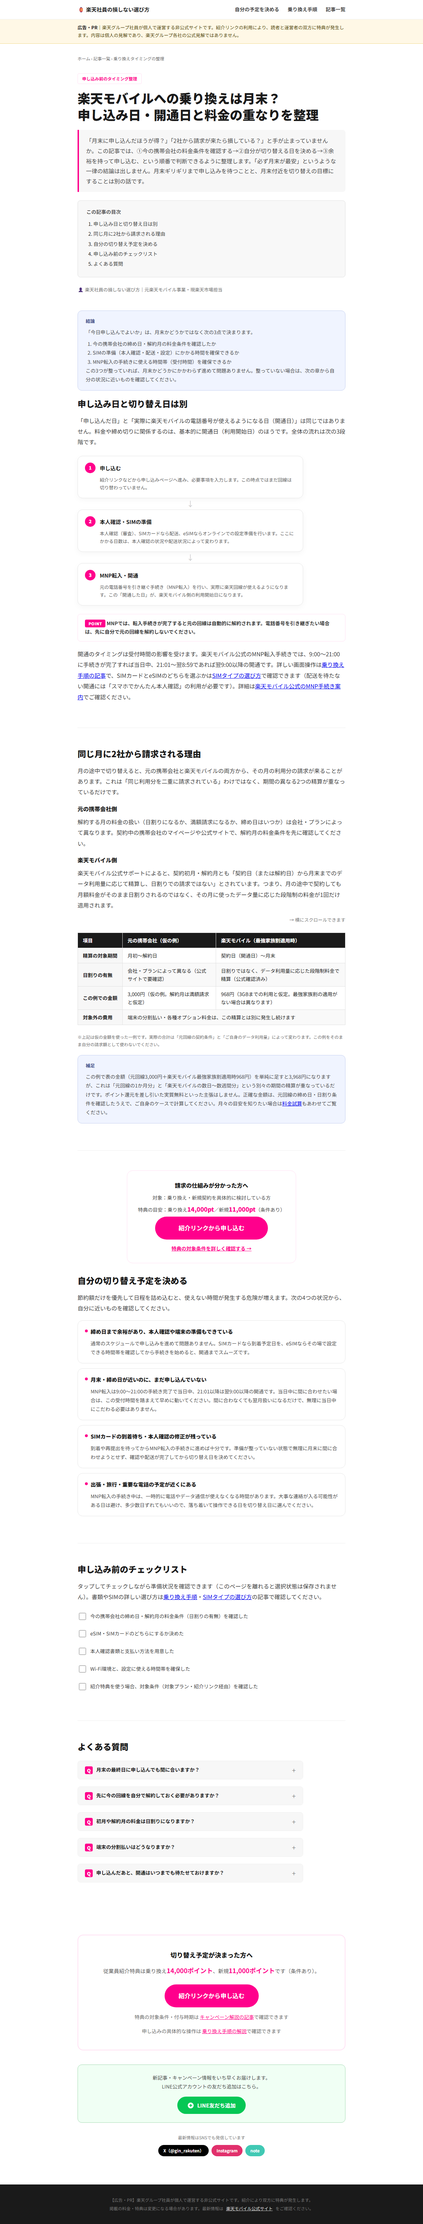
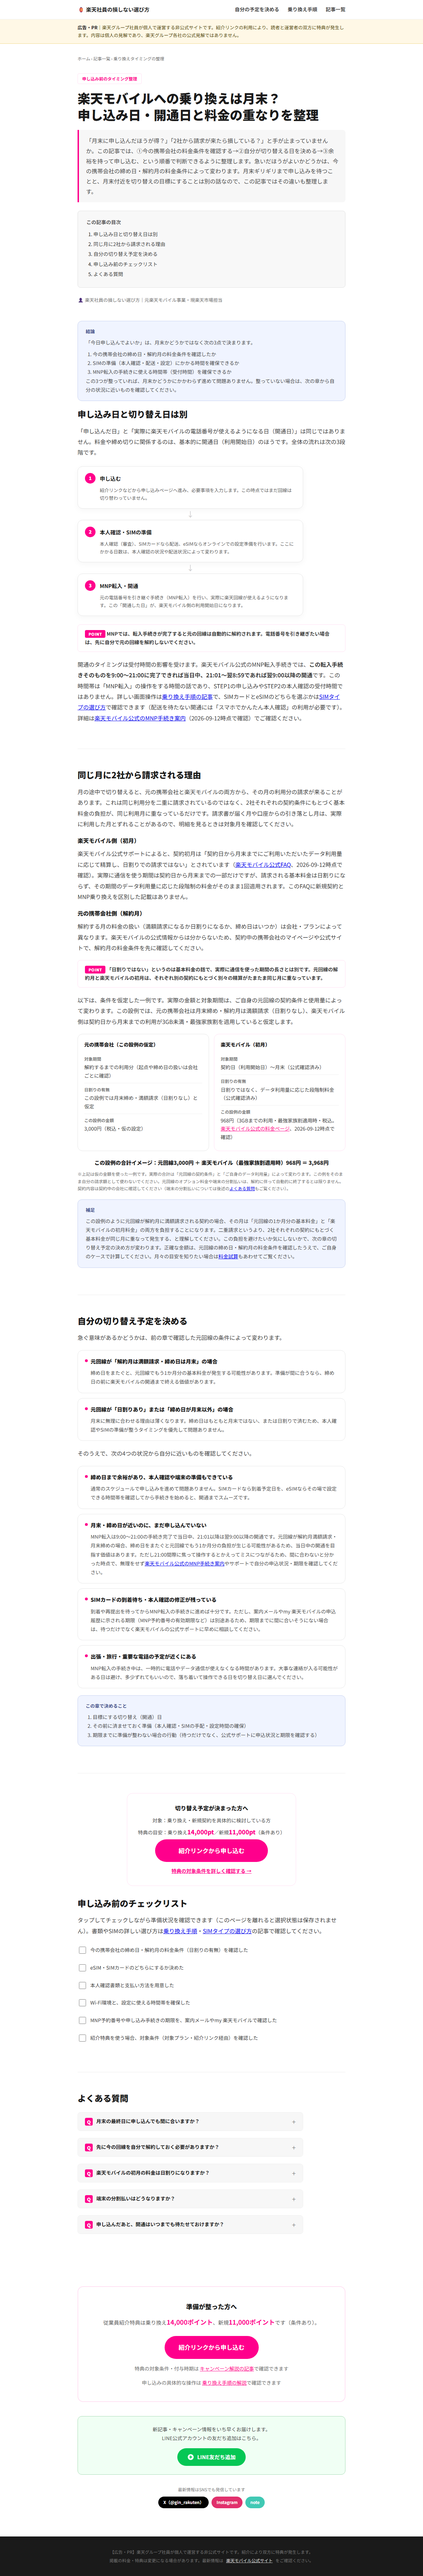
switch-timing修正版のレビュー画像・出典資料を更新
SOURCE_SHA b5796bd 時点の /articles/switch-timing/ を再撮影し、
manifest.jsonとsources.md（公式情報の確認日・URL・確認内容）を追加する。
FAQの確認画像はスティッキーヘッダーとの重なりを避けるため、フルページ
ではなくビューポート単位のスクリーンショットに変更した。

Changed region(s): [[0.0, 0.0, 1.0, 0.9951], [0.7092, 0.1555, 0.74, 0.1866]]

diff --git a/.review-artifacts/switch-timing/sources.md b/.review-artifacts/switch-timing/sources.md
@@ -1,0 +1,22 @@
+# switch-timing 記事の公式情報 出典まとめ
+
+確認日: 2026-09-12（本文中の「2026-09-12時点で確認」もこの記録に対応）
+
+| 本文中の主張 | 出典URL | 確認した内容の要点 |
+|---|---|---|
+| 楽天モバイルの契約初月は、契約日から月末までのデータ利用量に応じて精算され、日割りではない。新規契約とMNPを区別した記載はない。 | https://network.mobile.rakuten.co.jp/faq/detail/10001152/ | Q「月の途中で契約した場合、契約初月の月額料金はどうなりますか？」A「契約日から月末までにご利用いただいたデータ利用量に応じて精算いたします。日割りでのご請求ではありません。」新規/MNPの区別記載なし。 |
+| Rakuten最強プランの段階制料金（最強家族割適用時 968円／2,068円／3,168円、税込） | https://network.mobile.rakuten.co.jp/fee/saikyo-plan/ | ページ内に「最強家族割適用で」税込968円（3GBまで）・2,068円（20GBまで）・3,168円（20GB超）の記載を確認。家族割なしの単体価格はページから直接確認できなかったため、本文・設例では使用していない。 |
+| MNP転入手続きの開通可能時間（9:00〜21:00完了で当日中、21:01〜翌8:59完了で翌9:00以降） | https://network.mobile.rakuten.co.jp/guide/mnp/ | 「転入手続きの時間により開通可能時間が異なります。お手続き時間：9:00～21:00 → 開通可能時間：当日中。お手続き時間：21:01～翌8:59 → 開通可能時間：翌9:00以降。」この時間帯は「MNP転入」の操作自体の時間であり、申し込み・本人確認の受付時間の記載はページ内に見当たらない。 |
+| MNP予約番号の有効期限満了日の午前10時をもって自動的に回線が切り替わり、課金が開始される。この記載はMNPワンストップ方式・MNP予約番号を自分で取得する方式の両方のセクションにある。 | https://network.mobile.rakuten.co.jp/guide/mnp/ | 「開通手続きが完了していない場合は、MNP予約番号の有効期限満了日の午前10時をもって自動的に回線が切り替わり、楽天回線のサービスが開始（課金開始）されます。」の文言が、MNPワンストップのセクション・MNP予約番号を使うセクションの両方に同一の文言で掲載されていることを、別々に引用して確認済み。 |
+| MNPでは、楽天モバイル側の転入手続きが完了すると元の回線は自動的に解約される。 | https://network.mobile.rakuten.co.jp/guide/mnp/ | MNP手続き案内の記載にもとづく（前回レビュー時から継続して使用している既存記載）。 |
+
+## 今回のレビューで扱いを変更した点
+
+- 前バージョンで「契約初月・解約月とも『契約日（または解約日）から月末までの…』」としていたのは誤り。`https://network.mobile.rakuten.co.jp/faq/detail/00002034/`（Rakuten最強プランを**解約**した場合のFAQ）は、読者が乗り換える先である楽天モバイル自身を解約する場合の話であり、読者が今使っている**別会社**の解約月ルールとは無関係。このFAQを元回線の解約月の根拠として使うのは出典の誤用にあたるため、本文から出典として使うのをやめ、元回線側は「会社ごとに異なるため契約中の会社に確認してください」という案内に統一した。
+- 「有効期間が7日以上残っている必要があり、有効期限を過ぎると自動的に回線が切り替わります」としていた点を、`https://network.mobile.rakuten.co.jp/guide/mnp/` の「有効期限満了日の**午前10時**をもって」という原文表現に修正。
+- 「MNPワンストップに対応した会社からの乗り換えでは、予約番号自体が不要です」という記載から「だから期限もない」と読めていた点を、同ページの記載（ワンストップのセクションにも同じ期限文言がある）にもとづき修正。
+
+## 未確認のまま本文に含めていない事項
+
+- Rakuten最強プランの家族割なし（単体）の税込月額。公式料金ページから直接確認できなかったため、本文・設例では家族割適用時の確認済み数値のみを使用している。
+- 元の携帯会社（読者が乗り換え元とする各社）の解約月の日割り有無・締め日・違約金の具体的な条件。会社・プランにより異なるため、本文では「契約中の会社に確認してください」という案内にとどめている。
